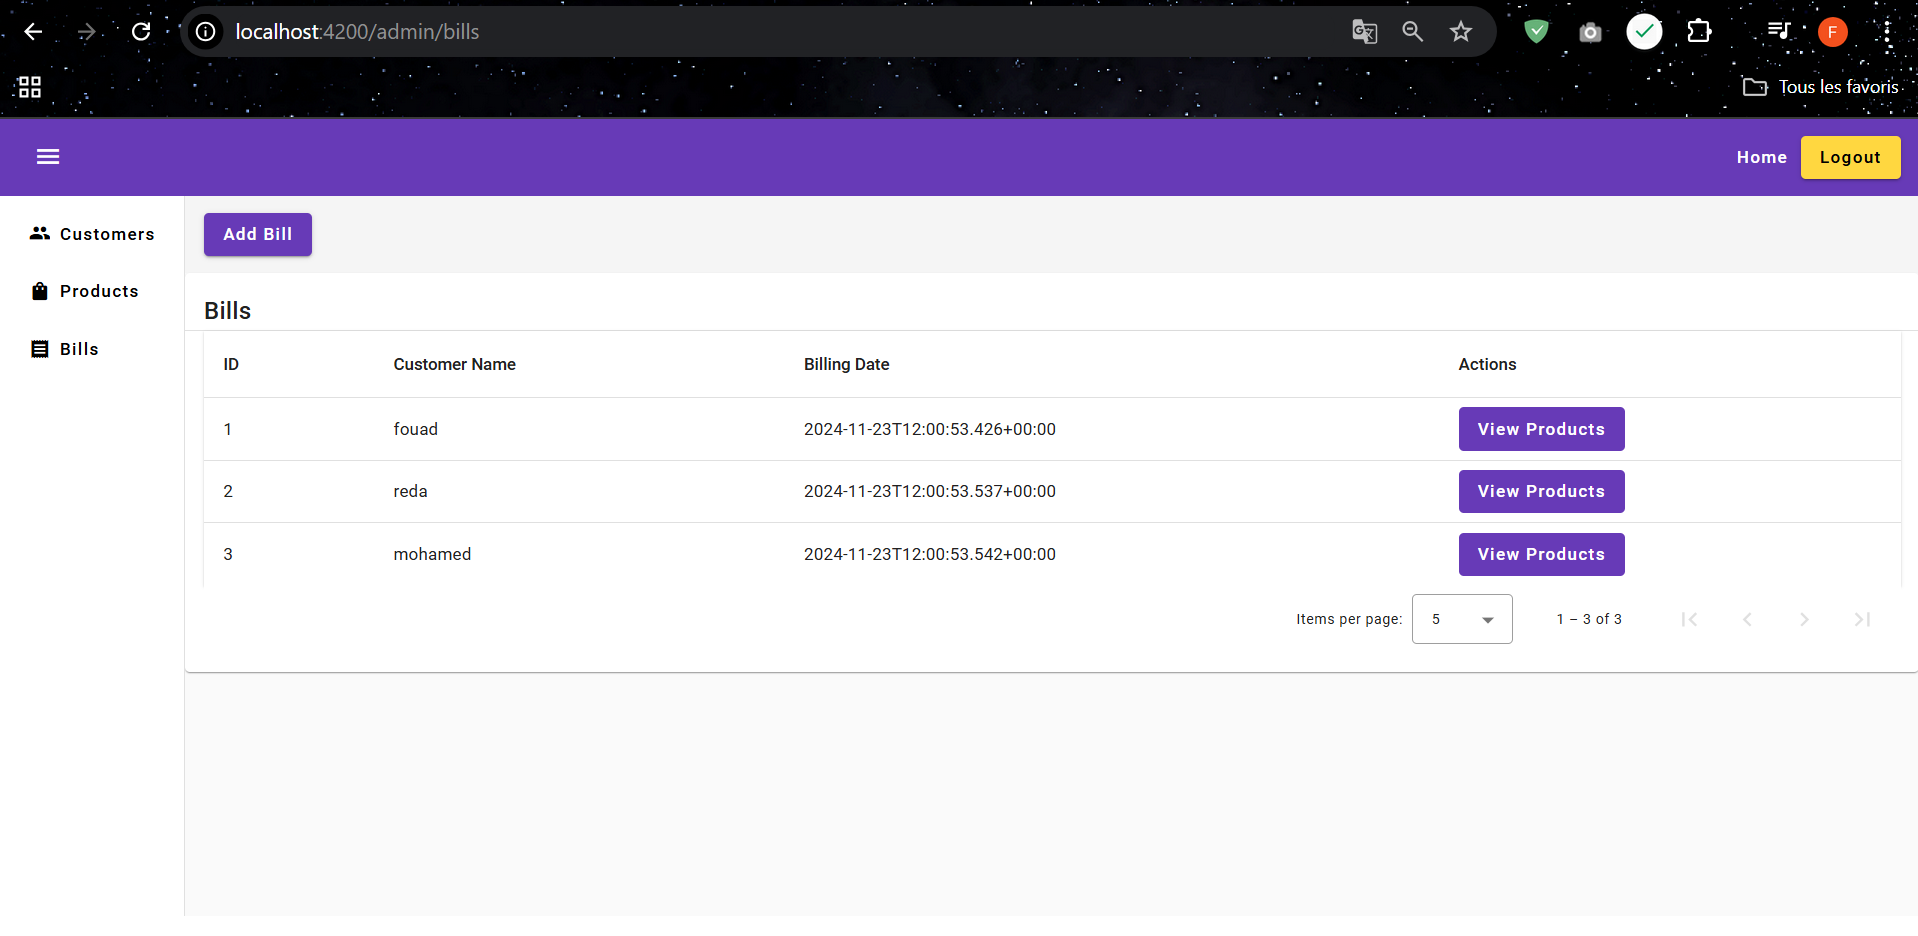
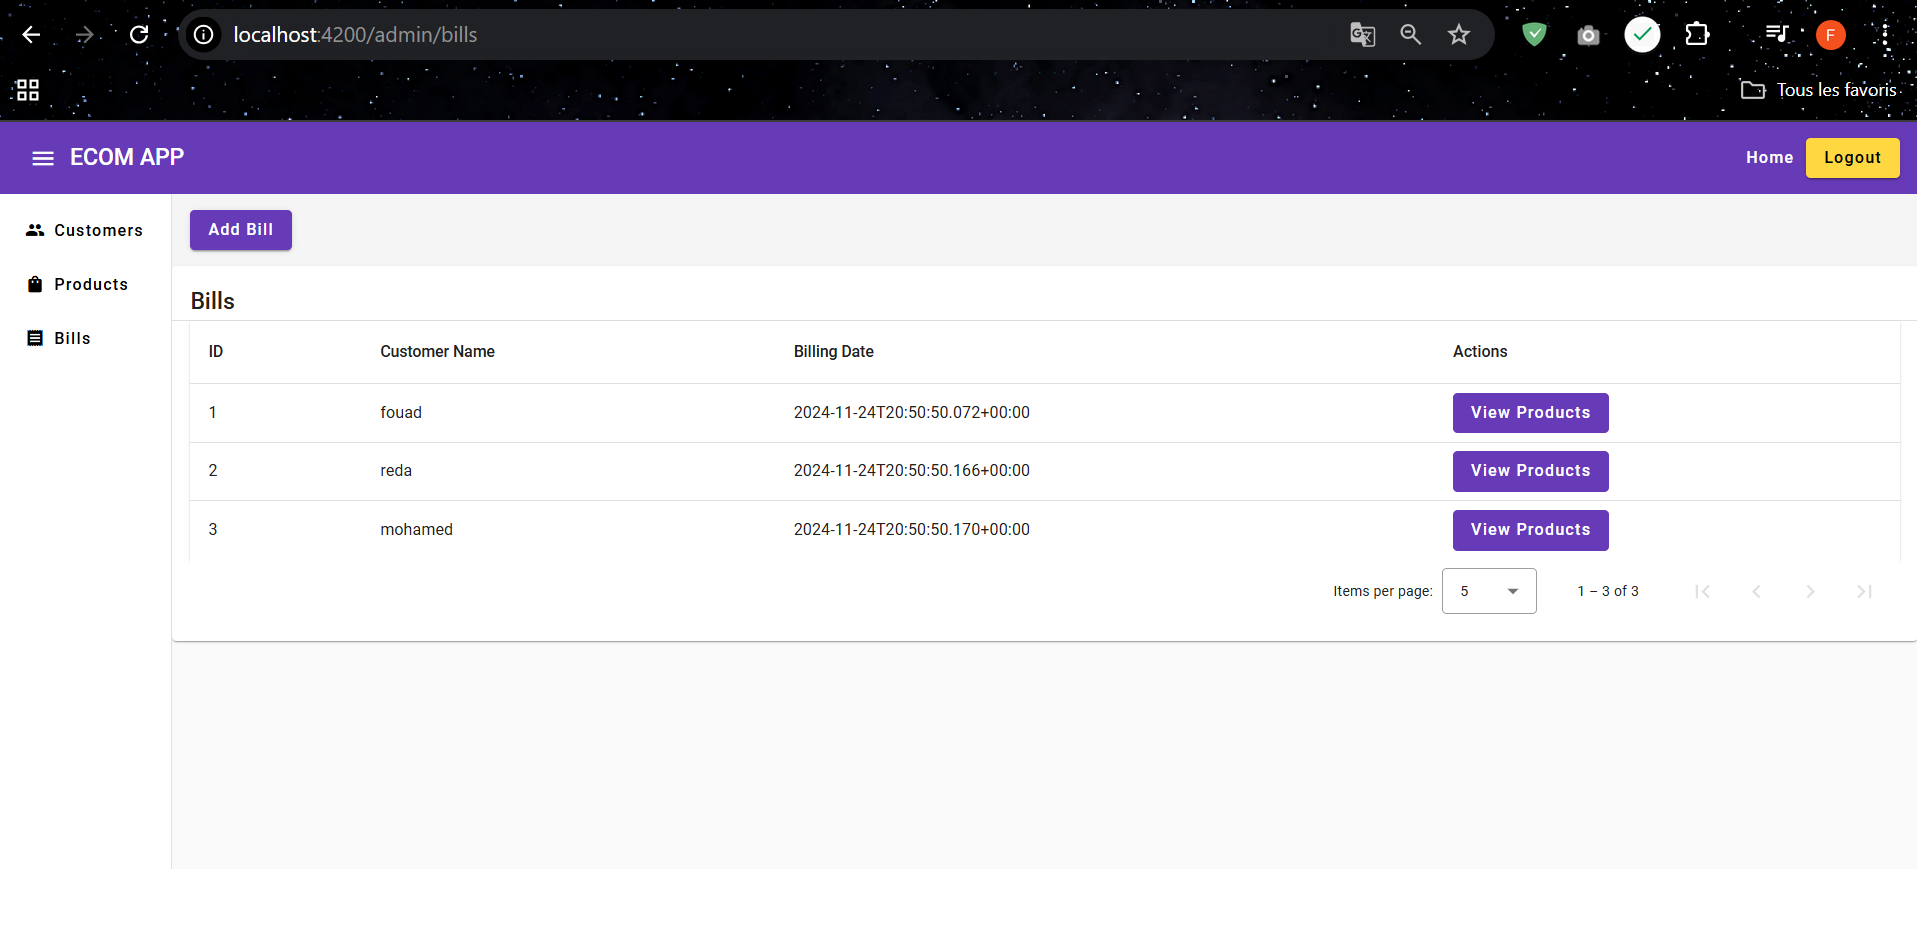
implement dialogs for delete customers and products

diff --git a/src/app/products/list-products/list-products.component.ts b/src/app/products/list-products/list-products.component.ts
@@ -5,6 +5,8 @@ import {MatTableDataSource} from "@angular/material/table";
 import {ProductsService} from "../../services/products.service";
 import {Product} from "../../models/product.model";
 import {Router} from "@angular/router";
+import {MatDialog} from "@angular/material/dialog";
+import {ConfirmDialogComponent} from "../../components/confirm-dialog/confirm-dialog.component";
 
 @Component({
   selector: 'app-list-products',
@@ -15,7 +17,9 @@ export class ListProductsComponent implements OnInit{
   public products: any;
   public dataSource: any;
   public displayedColumns = [ 'name', 'price','quantity','actions'];
-  constructor(private productsService:ProductsService,private router:Router) {
+  constructor(private productsService:ProductsService,
+              private router:Router,
+              private dialog:MatDialog) {
   }
   @ViewChild(MatPaginator) paginator!: MatPaginator;
   @ViewChild(MatSort) sort!: MatSort;
@@ -44,14 +48,22 @@ export class ListProductsComponent implements OnInit{
   }
 
   deleteProduct(id:number) {
-    // this.productsService.deleteProduct(id).subscribe({
-    //   next: data => {
-    //     console.log(data);
-    //     this.getProducts();
-    //   },
-    //   error: err => {
-    //     console.log("Error: ",err);
-    //   }
-    // })
+     this.dialog.open(ConfirmDialogComponent,{
+       data: {
+         title: 'Delete Product',
+         message: 'Are you sure you want to delete this product?'
+       },
+     }).afterClosed().subscribe(result => {
+       if(result){
+         this.productsService.deleteProduct(id).subscribe({
+           next: () => {
+             this.getProducts();
+           },
+           error: (err) => {
+             console.log(err);
+           }
+         })
+       }
+     });
   }
 }

diff --git a/src/app/customers/list-customers/list-customers.component.ts b/src/app/customers/list-customers/list-customers.component.ts
@@ -5,6 +5,8 @@ import {MatSort} from "@angular/material/sort";
 import {MatTableDataSource} from "@angular/material/table";
 import {Customer} from "../../models/customer.model";
 import {Router} from "@angular/router";
+import {ConfirmDialogComponent} from "../../components/confirm-dialog/confirm-dialog.component";
+import {MatDialog} from "@angular/material/dialog";
 
 @Component({
   selector: 'app-list-customers',
@@ -16,7 +18,8 @@ export class ListCustomersComponent implements OnInit {
   public dataSource: any;
   public displayedColumns = ['id', 'name', 'email','actions'];
   constructor(private customersService:CustomersService,
-              private router:Router) {
+              private router:Router,
+              private dialog:MatDialog) {
   }
   @ViewChild(MatPaginator) paginator!: MatPaginator;
   @ViewChild(MatSort) sort!: MatSort;
@@ -41,7 +44,23 @@ export class ListCustomersComponent implements OnInit {
   }
 
   deleteCustomer(id:number) {
-
+     this.dialog.open(ConfirmDialogComponent,{
+       data: {
+         title: 'Delete Customer',
+         message: 'Are you sure you want to delete this customer?'
+       },
+     }).afterClosed().subscribe(result => {
+       if(result){
+         this.customersService.deleteCustomer(id).subscribe({
+           next: () => {
+             this.getCustomers();
+           },
+           error: (err) => {
+             console.log(err);
+           }
+         });
+       }
+     })
   }
 
   editCustomer(id:number) {

diff --git a/src/app/components/nav-bar/nav-bar.component.html b/src/app/components/nav-bar/nav-bar.component.html
@@ -2,14 +2,14 @@
   <button mat-icon-button (click)="myDrawer.toggle()">
     <mat-icon>menu</mat-icon>
   </button>
-  <span style="flex:auto"></span>
+  <span style="flex:auto">ECOM APP</span>
   <button mat-button routerLink="#">Home</button>
 <!--  <button mat-button routerLink="#">Profile</button>-->
 
-  <mat-menu #importMenu>
-    <button mat-menu-item routerLink="/admin/customers">Load Customers</button>
-    <button mat-menu-item routerLink="/admin/products">Load Products</button>
-  </mat-menu>
+<!--  <mat-menu #importMenu>-->
+<!--    <button mat-menu-item routerLink="/admin/customers">Load Customers</button>-->
+<!--    <button mat-menu-item routerLink="/admin/products">Load Products</button>-->
+<!--  </mat-menu>-->
 
   <button mat-raised-button color="accent" >Logout</button>
 </mat-toolbar>

diff --git a/src/app/app.module.ts b/src/app/app.module.ts
@@ -34,6 +34,7 @@ import { EditCustomerComponent } from './customers/edit-customer/edit-customer.c
 import { EditProductComponent } from './products/edit-product/edit-product.component';
 import { EditBillComponent } from './bills/edit-bill/edit-bill.component';
 import {MatProgressSpinner} from "@angular/material/progress-spinner";
+import { ConfirmDialogComponent } from './components/confirm-dialog/confirm-dialog.component';
 
 @NgModule({
   declarations: [
@@ -48,7 +49,8 @@ import {MatProgressSpinner} from "@angular/material/progress-spinner";
     NewProductComponent,
     EditCustomerComponent,
     EditProductComponent,
-    EditBillComponent
+    EditBillComponent,
+    ConfirmDialogComponent
   ],
   imports: [
     BrowserModule,

diff --git a/src/app/components/confirm-dialog/confirm-dialog.component.spec.ts b/src/app/components/confirm-dialog/confirm-dialog.component.spec.ts
@@ -1,0 +1,23 @@
+import { ComponentFixture, TestBed } from '@angular/core/testing';
+
+import { ConfirmDialogComponent } from './confirm-dialog.component';
+
+describe('ConfirmDialogComponent', () => {
+  let component: ConfirmDialogComponent;
+  let fixture: ComponentFixture<ConfirmDialogComponent>;
+
+  beforeEach(async () => {
+    await TestBed.configureTestingModule({
+      declarations: [ConfirmDialogComponent]
+    })
+    .compileComponents();
+    
+    fixture = TestBed.createComponent(ConfirmDialogComponent);
+    component = fixture.componentInstance;
+    fixture.detectChanges();
+  });
+
+  it('should create', () => {
+    expect(component).toBeTruthy();
+  });
+});

diff --git a/src/app/components/confirm-dialog/confirm-dialog.component.ts b/src/app/components/confirm-dialog/confirm-dialog.component.ts
@@ -1,0 +1,11 @@
+import {Component, Inject} from '@angular/core';
+import {MAT_DIALOG_DATA} from "@angular/material/dialog";
+
+@Component({
+  selector: 'app-confirm-dialog',
+  templateUrl: './confirm-dialog.component.html',
+  styleUrl: './confirm-dialog.component.css'
+})
+export class ConfirmDialogComponent {
+  constructor(@Inject(MAT_DIALOG_DATA) public data: any) {}
+}

diff --git a/src/app/services/customers.service.ts b/src/app/services/customers.service.ts
@@ -26,4 +26,8 @@ export class CustomersService {
   updateCustomer(id:number,customer: Customer):Observable<Customer> {
     return this.http.put<Customer>(`${environment.baseUrl}${this.urlService}/${id}`,customer);
   }
+
+  deleteCustomer(id: number) {
+    return this.http.delete<Customer>(`${environment.baseUrl}${this.urlService}/${id}`);
+  }
 }

diff --git a/src/app/components/confirm-dialog/confirm-dialog.component.html b/src/app/components/confirm-dialog/confirm-dialog.component.html
@@ -1,0 +1,8 @@
+<h2 mat-dialog-title>{{data.title}}</h2>
+<mat-dialog-content>
+  {{data.message}}
+</mat-dialog-content>
+<mat-dialog-actions>
+  <button mat-button mat-dialog-close="false">No</button>
+  <button mat-button mat-dialog-close="true" cdkFocusInitial>Ok</button>
+</mat-dialog-actions>

diff --git a/src/app/products/edit-product/edit-product.component.html b/src/app/products/edit-product/edit-product.component.html
@@ -2,7 +2,7 @@
   <mat-card class="customer-form" [formGroup]="editProductForm">
     <mat-card-header>
       <mat-card-title>
-        Edit Customer
+        Edit Product
       </mat-card-title>
     </mat-card-header>
     <mat-divider></mat-divider>

diff --git a/src/app/products/new-product/new-product.component.html b/src/app/products/new-product/new-product.component.html
@@ -2,7 +2,7 @@
   <mat-card class="customer-form" [formGroup]="productForm">
     <mat-card-header>
       <mat-card-title>
-        Add Customer
+        Add Product
       </mat-card-title>
     </mat-card-header>
     <mat-divider></mat-divider>

diff --git a/src/app/services/products.service.ts b/src/app/services/products.service.ts
@@ -29,6 +29,6 @@ export class ProductsService {
   }
 
   deleteProduct(id: number) {
-
+    return this.http.delete<Product>(`${environment.baseUrl}${this.urlService}/${id}`);
   }
 }

diff --git a/README.md b/README.md
@@ -8,9 +8,57 @@
 
 ![customers](captures/customers.png)
 
+### ADD CUSTOMER :
+
+![createCustomer](captures/add-customer.png)
+
+### AFTER ADD CUSTOMER :
+
+![createCustomer](captures/after-add-customer.png)
+
+### EDIT CUSTOMER :
+
+![editCustomer](captures/edit-customer.png)
+
+### AFTER EDIT CUSTOMER :
+
+![editCustomer](captures/after-edit-customer.png)
+
+### DELETE CUSTOMER :
+
+![deleteCustomer](captures/delete-customer.png)
+
+### AFTER DELETE CUSTOMER :
+
+![deleteCustomer](captures/customers.png)
+
 ### GET PRODUCTS :
 
 ![products](captures/products.png)
+
+### ADD PRODUCT :
+
+![createProduct](captures/add-product.png)
+
+### AFTER ADD PRODUCT :
+
+![createProduct](captures/after-add-product.png)
+
+### EDIT PRODUCT :
+
+![editProduct](captures/edit-product.png)
+
+### AFTER EDIT PRODUCT :
+
+![editProduct](captures/after-edit-product.png)
+
+### DELETE PRODUCT :
+
+![deleteProduct](captures/delete-product.png)
+
+### AFTER DELETE PRODUCT :
+
+![deleteProduct](captures/products.png)
 
 ### GET BILLS :
 
@@ -18,4 +66,4 @@
 
 ### GET PRODUCT ITEM OF BILL :
 
-![product items](captures/productItems.png)
+![product items](captures/product-items.png)
